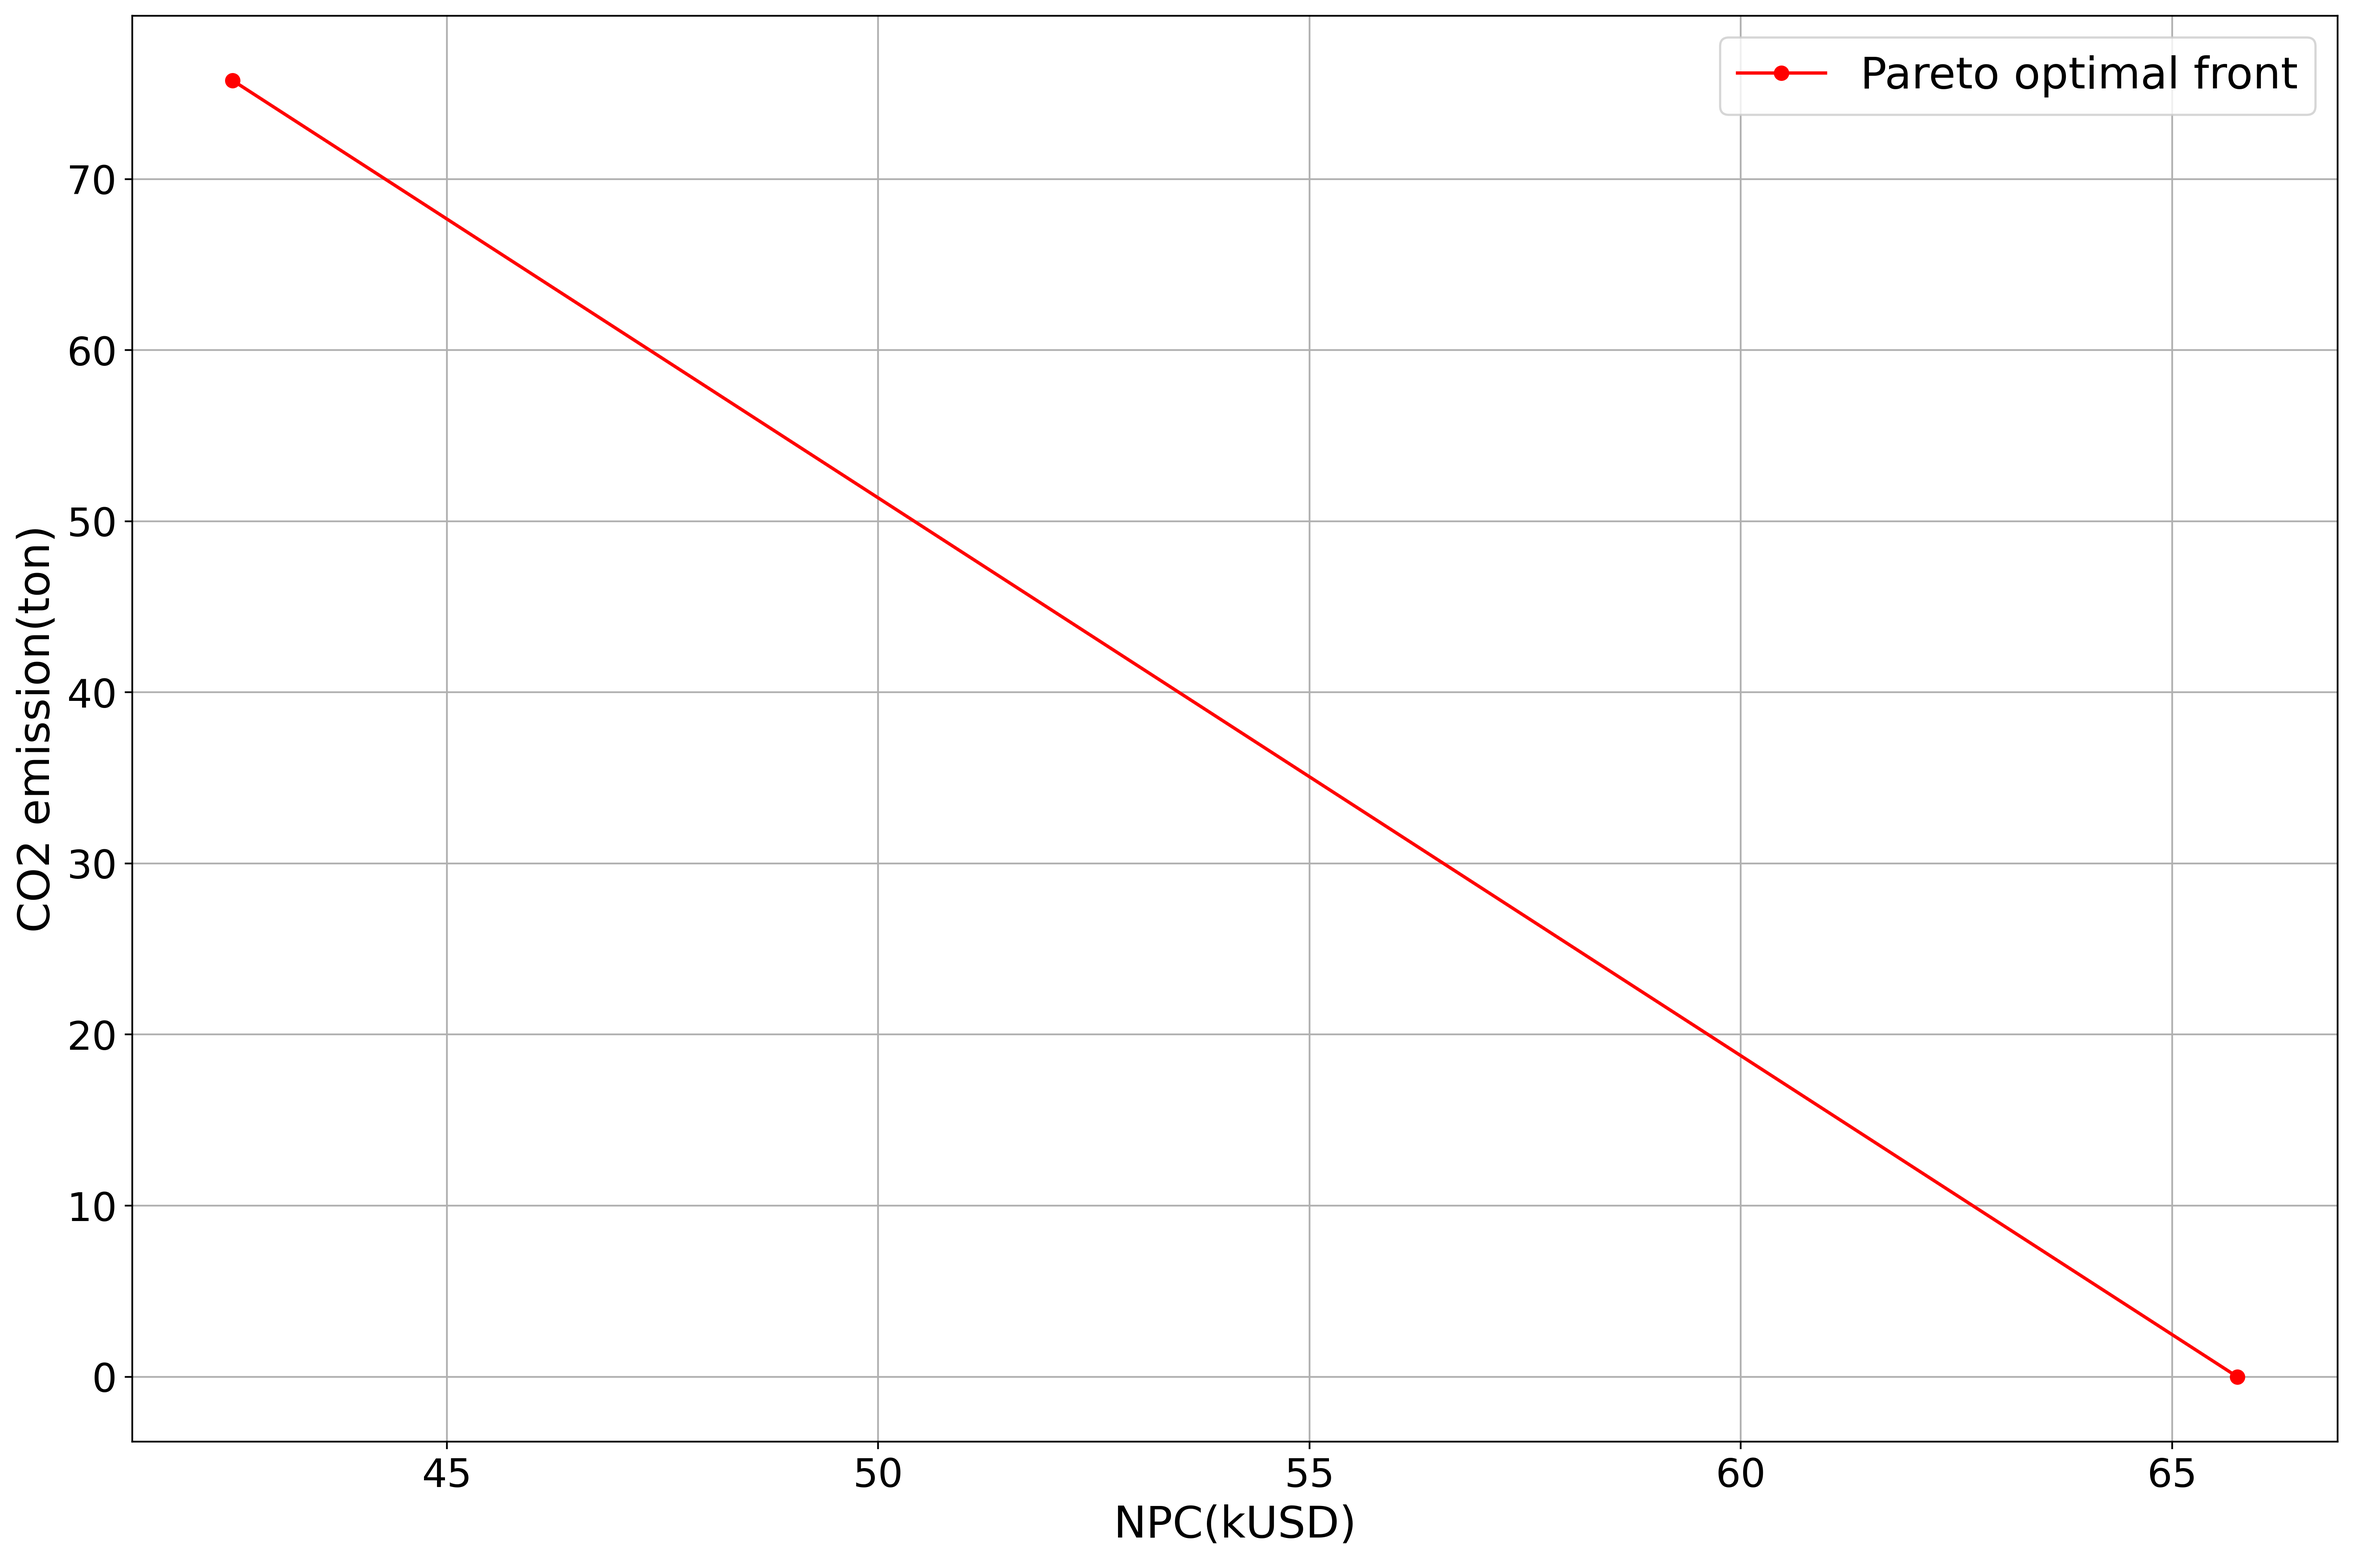
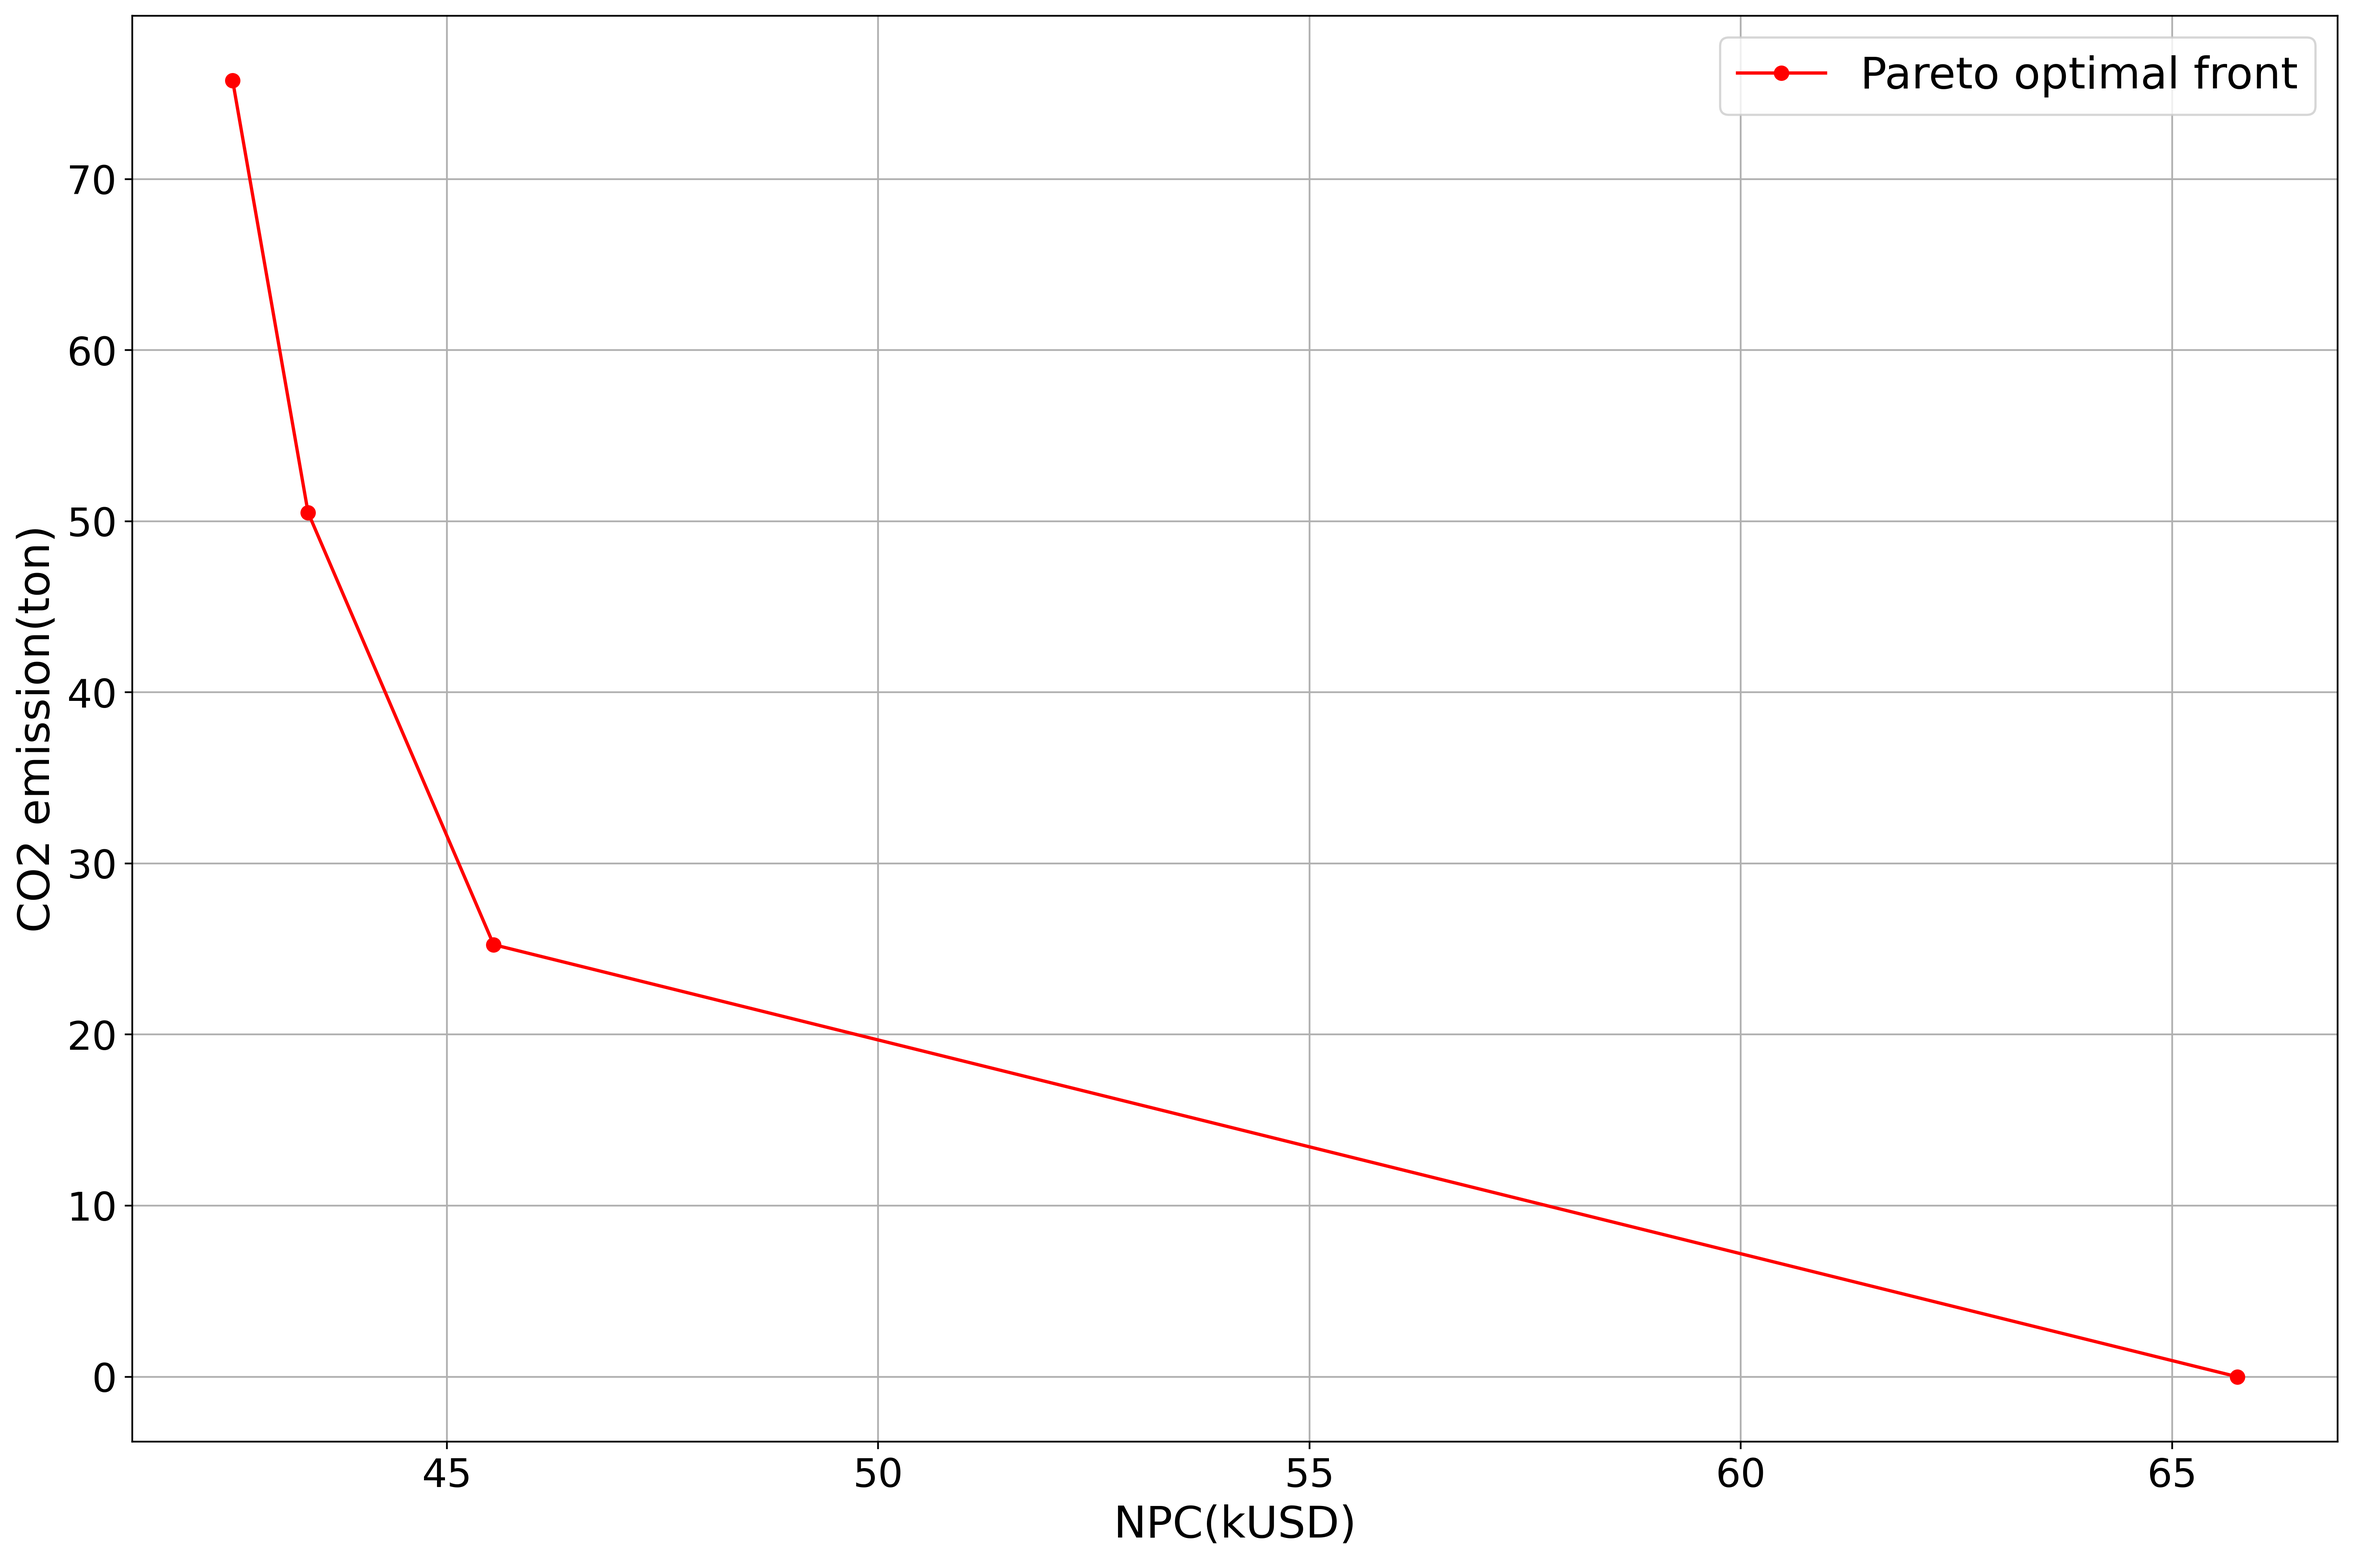
Update

Changed region(s): [[0.905, 0.8391, 0.9362, 0.8701]]

diff --git a/Code/Model/Model_Resolution.py b/Code/Model/Model_Resolution.py
@@ -47,7 +47,7 @@ def Model_Resolution(model, datapath=data_file_path, options_string="mipgap=0.05
         if "param: Pareto_points" in Data_import[i]:      
             n = int((re.findall('\d+',Data_import[i])[0]))
         if "param: Pareto_solution" in Data_import[i]:      
-            i = int((re.findall('\d+',Data_import[i])[0]))
+            p = int((re.findall('\d+',Data_import[i])[0]))
     
     if (Generator_Partial_Load == 1 and MILP_Formulation == 0):
         print('###########################################################')
@@ -438,7 +438,7 @@ def Model_Resolution(model, datapath=data_file_path, options_string="mipgap=0.05
             print('Cost CO2 avoided [USD/ton] =' +str(round(NPC/CO2,3))) 
             
             ####################### PARETO CURVE ###########################################################
-            print('       plotting Pareto curve...')
+            print('plotting Pareto curve...')
             fontticks = 18
             fontaxis = 20
             fontlegend = 20
@@ -467,8 +467,9 @@ def Model_Resolution(model, datapath=data_file_path, options_string="mipgap=0.05
             print('Pareto curve plot saved.')
             #################################################################################################
             
+            step = int((CO2emission_max - CO2emission_min)/(n-1))
             steps = list(range(int(CO2emission_min),int(CO2emission_max),step)) 
-                        
+
             if len(steps)<=n:
                 steps.append(CO2emission_max)
             
@@ -477,7 +478,7 @@ def Model_Resolution(model, datapath=data_file_path, options_string="mipgap=0.05
                 
             # i = int(input("please indicate which solution you prefer (starting from 1 to n in CO2 emission): ")) #asks the user how many profiles (i.e. code runs) he wants
 
-            instance.e = steps[i] 
+            instance.e = steps[p] 
             print('Calling solver...')
             results = opt.solve(instance, tee=True) # Solving a model instance
             print('Instance solved')  # Loading solution into instance
@@ -574,7 +575,7 @@ def Model_Resolution(model, datapath=data_file_path, options_string="mipgap=0.05
 
             # i = int(input("please indicate which solution you prefer (starting from 1 to n in CO2 emission): ")) #asks the user how many profiles (i.e. code runs) he wants
                            
-            instance.e = steps[i] 
+            instance.e = steps[p] 
             #print(value(instance.e))
             print('Calling solver...')
             results = opt.solve(instance, tee=True) # Solving a model instance

diff --git a/Code/User Interface/run_page.py b/Code/User Interface/run_page.py
@@ -223,12 +223,12 @@ class RunPage(tk.Frame):
         self.output_scrollbar.pack(side='right', fill='y')
         self.output_text['yscrollcommand'] = self.output_scrollbar.set
         
-        
+        '''
         # Redirect output
         self.output_redirection = RedirectOutput(self.output_text)
         sys.stdout = self.output_redirection
         sys.stderr = self.output_redirection
-        
+        '''
         # Title label
         self.title_label = ttk.Label(self.controls_frame, text="Run the Model", font=("Helvetica", 16))
         self.title_label.pack(side='top', pady=10)
